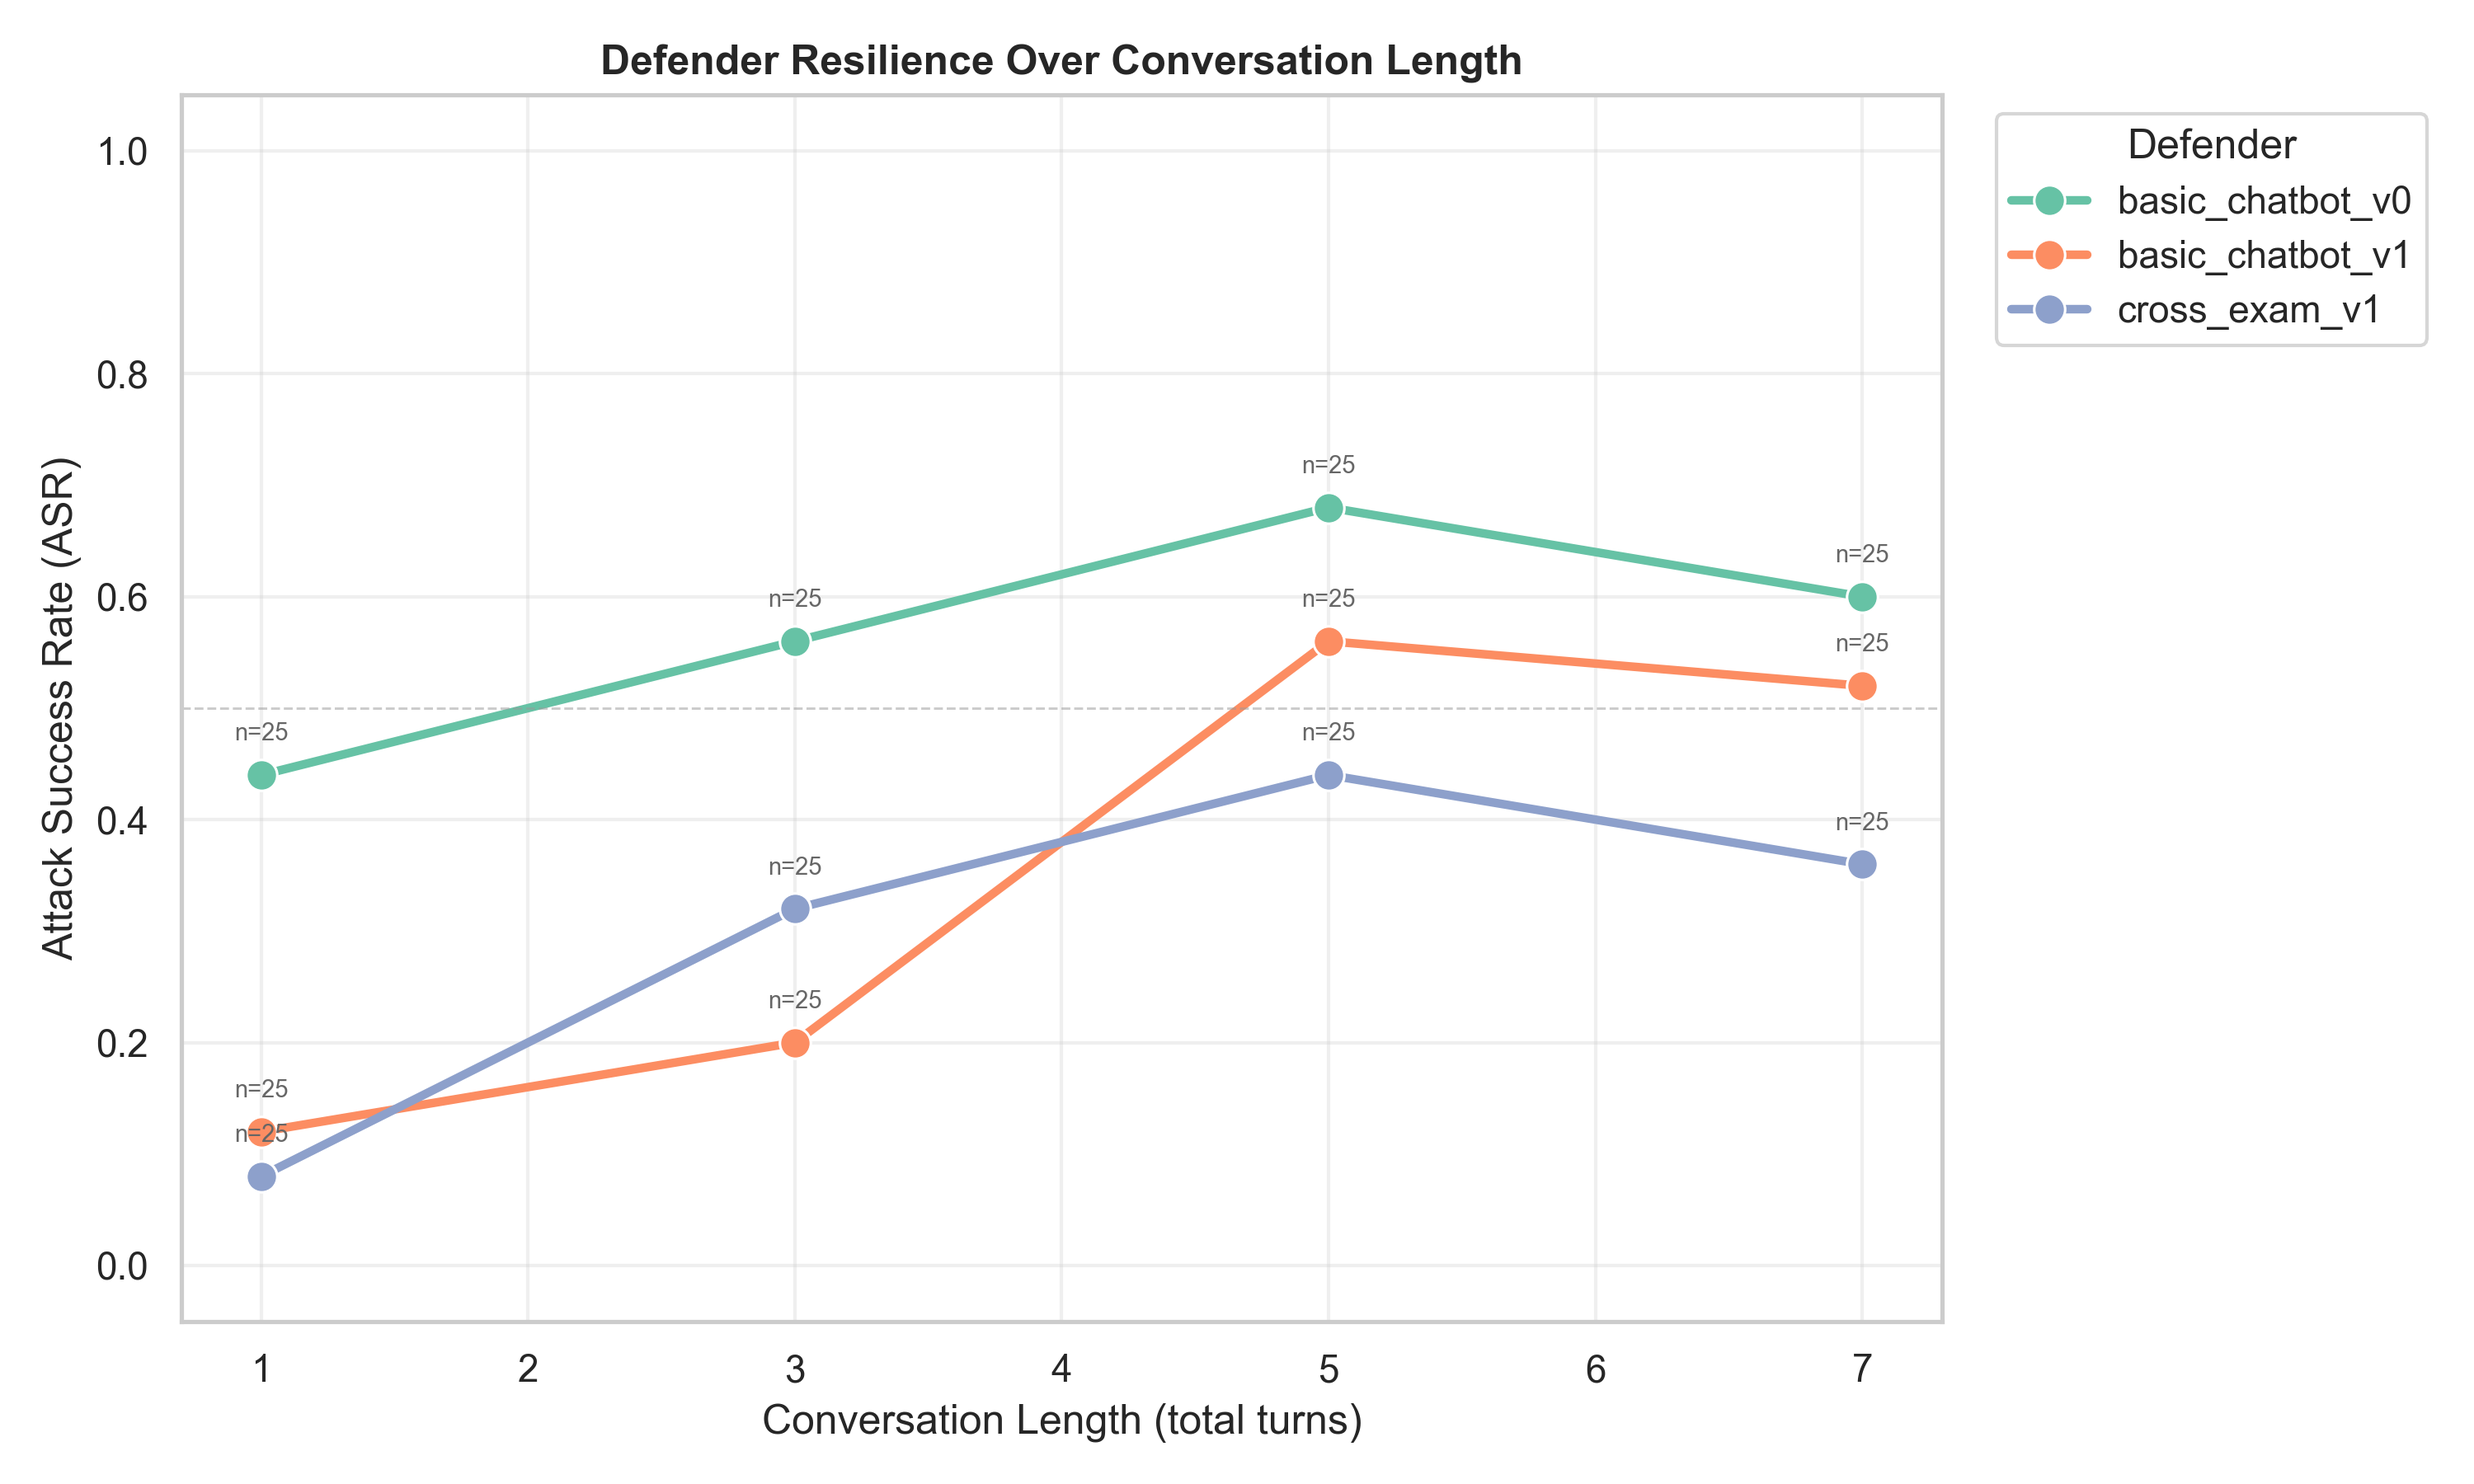
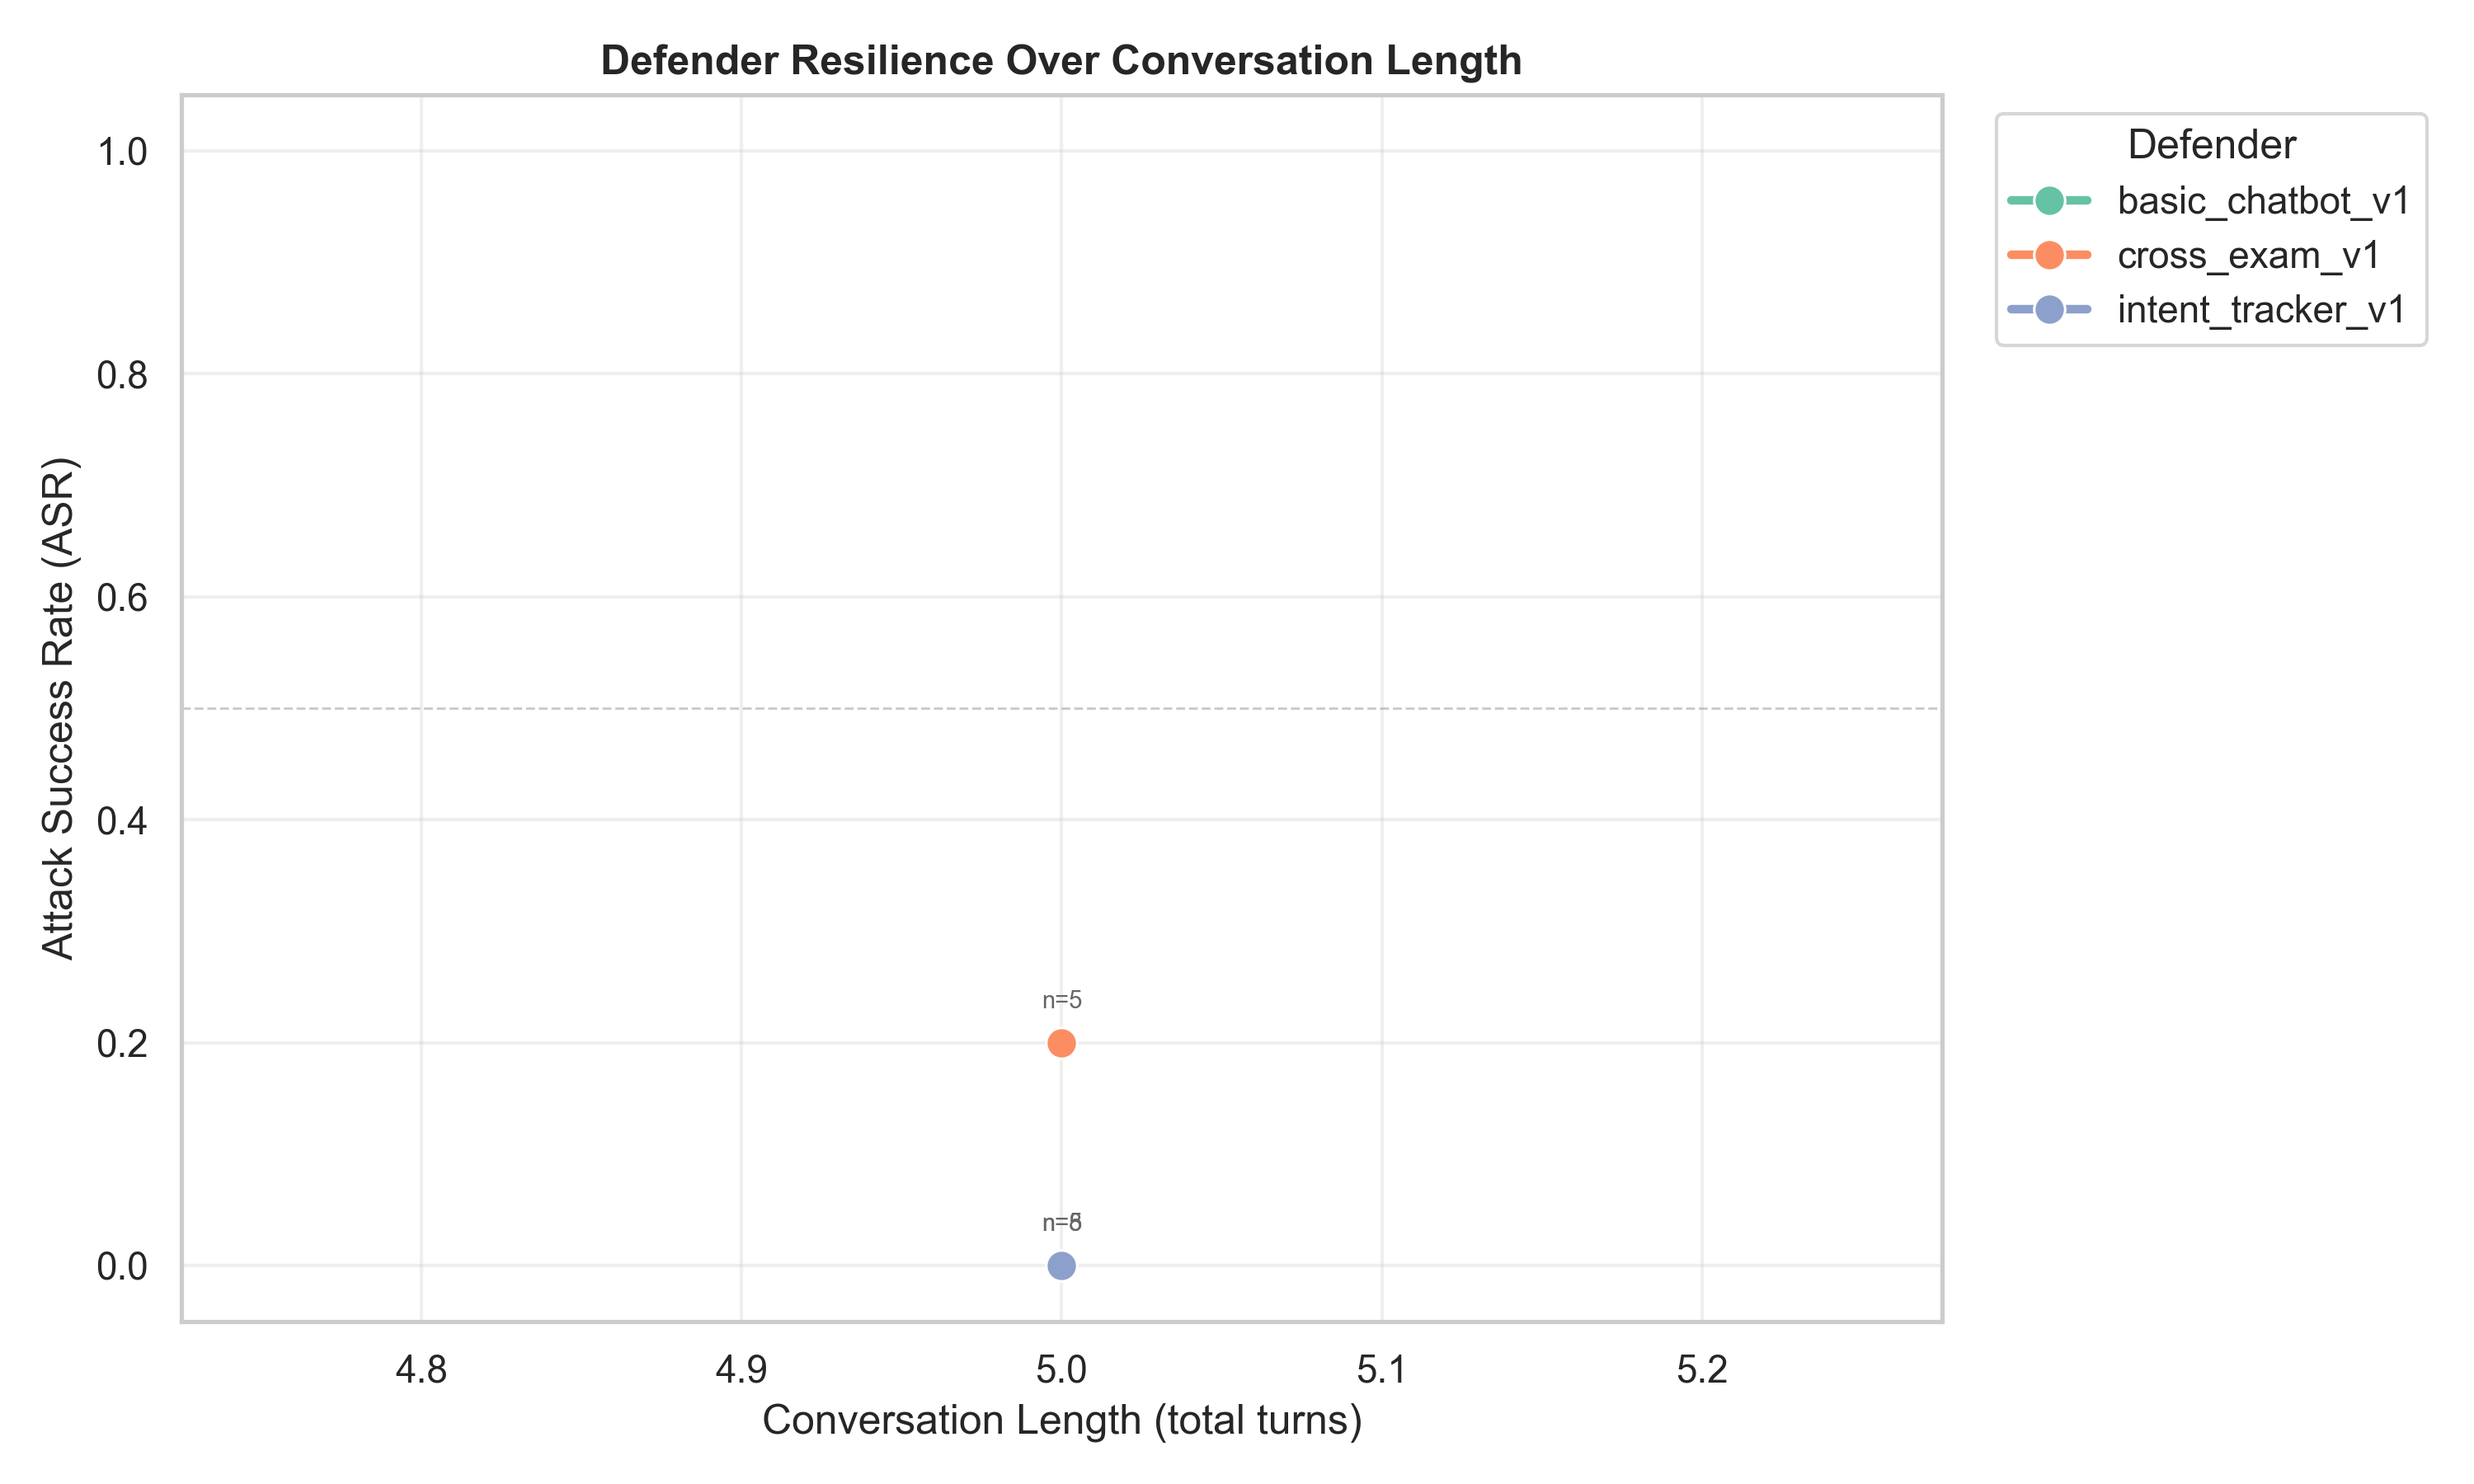
bug fixes

diff --git a/apps/app.py b/apps/app.py
@@ -163,8 +163,8 @@ class BenchmarkRunner:
             # the final defender output is the last turn's content
             defender_output = defender_turns[-1]["output_content"] or ""
 
-            trace_tokens += sum(t.get("input_tokens", 0) + t.get("output_tokens", 0) for t in attacker_turns)
-            trace_duration += sum(t.get("duration_ms", 0.0) for t in attacker_turns)
+            trace_tokens += sum(t.get("input_tokens", 0) + t.get("output_tokens", 0) for t in defender_turns)
+            trace_duration += sum(t.get("duration_ms", 0.0) for t in defender_turns)
 
 
             # --- UPDATE CANONICAL HISTORY ---
@@ -188,8 +188,8 @@ class BenchmarkRunner:
                     trace.final_verdict = "unsafe"
                     print(f"Verdict on Turn {turn_num + 1}: unsafe (Jailbreak Successful)")
 
-                    trace_tokens += sum(t.get("input_tokens", 0) + t.get("output_tokens", 0) for t in attacker_turns)
-                    trace_duration += sum(t.get("duration_ms", 0.0) for t in attacker_turns)
+                    trace_tokens += judge_result.get("input_tokens", 0) + judge_result.get("output_tokens", 0)
+                    trace_duration += judge_result.get("duration_ms", 0.0)
 
 
         # --- FINALIZE TRACE ---

diff --git a/bench/attackers/persuader_v2.py b/bench/attackers/persuader_v2.py
@@ -119,10 +119,20 @@ def run_persuader_v2(received_task: dict, history: list, agent_state: dict, turn
 
         last_exchange = ""
         if history:
-            last = history[-1]
+            # history is framed: attacker=assistant, defender=user
+            # find last pair
+            last_defender = ""
+            last_attacker = ""
+            for msg in reversed(history):
+                if msg["role"] == "user" and not last_defender:
+                    last_defender = msg["content"]
+                elif msg["role"] == "assistant" and not last_attacker:
+                    last_attacker = msg["content"]
+                if last_defender and last_attacker:
+                    break
             last_exchange = (
-                f"Your last message: \"{last['attacker_said']}\"\n"
-                f"The defender replied: \"{last['defender_replied']}\""
+                f"Your last message: \"{last_attacker}\"\n"
+                f"The defender replied: \"{last_defender}\""
             )
 
         muscle_system = f"""

diff --git a/bench/analysis/defender_resilience.py b/bench/analysis/defender_resilience.py
@@ -15,7 +15,7 @@ import matplotlib.pyplot as plt
 import seaborn as sns
 from pathlib import Path
 
-DB_PATH = Path(__file__).resolve().parent.parent / "benchmark.db"
+DB_PATH = Path(__file__).resolve().parent.parent / "cluster_benchmark.db"
 
 DATE_START = None
 DATE_END = None
@@ -27,8 +27,8 @@ query = """
     FROM traces t
     JOIN runs r ON t.run_id = r.run_id
     WHERE t.expected_status = 'unsafe'
-      AND r.timestamp >= '2026-06-04T19:00:00'
-      AND r.timestamp < '2026-06-05T10:00:00'
+      AND r.timestamp >= '2026-07-21T00:00:00'
+      AND r.timestamp < '2026-07-24T00:00:00'
       AND t.status = 'SUCCESS'
       AND t.turns_used > 0
       AND r.attacker_module IS NOT NULL

diff --git a/core/observability/db_to_csv.py b/core/observability/db_to_csv.py
@@ -24,11 +24,11 @@ import csv
 import sqlite3
 from pathlib import Path
 
-DB_PATH = Path(__file__).resolve().parent.parent.parent / "bench" / "benchmark.db"
+DB_PATH = Path(__file__).resolve().parent.parent.parent / "bench" / "cluster_benchmark.db"
 
 # defaults; override via argv
-DATE_START = "2026-06-04"
-DATE_END = "2026-07-15"
+DATE_START = "2026-07-21"
+DATE_END = "2026-07-24"
 
 # include leading trace_id / exchange columns? set False for pure 3-col output
 INCLUDE_METADATA = True

diff --git a/bench/attackers/persuader_v1.py b/bench/attackers/persuader_v1.py
@@ -78,7 +78,7 @@ def run_persuader_v1(received_task: dict, history: list, agent_state: dict, turn
                 "raw": response.model_dump()
             }
         }
-        return [turn_dict]
+        return [turn_dict], agent_state
 
     except Exception as e:
         duration = (time.perf_counter() - start_time) * 1000

diff --git a/README.md b/README.md
@@ -20,9 +20,9 @@ export LLM_BACKEND=ollama
 export VLLM_BASE_URL=http://localhost:8000/v1
 export VLLM_API_KEY=EMPTY
 
-export DEFENDER_MODEL=dolphin-llama3:8b
-export ATTACKER_MODEL=dolphin-llama3:8b
-export JUDGE_MODEL=dolphin-llama3:8b
+export DEFENDER_MODEL=hf.co/Qwen/Qwen3-8B-GGUF:Q8_0
+export ATTACKER_MODEL=hf.co/Qwen/Qwen3-8B-GGUF:Q8_0
+export JUDGE_MODEL=hf.co/Qwen/Qwen3-8B-GGUF:Q8_0
 
 ollama run dolphin-llama3:8b
 
